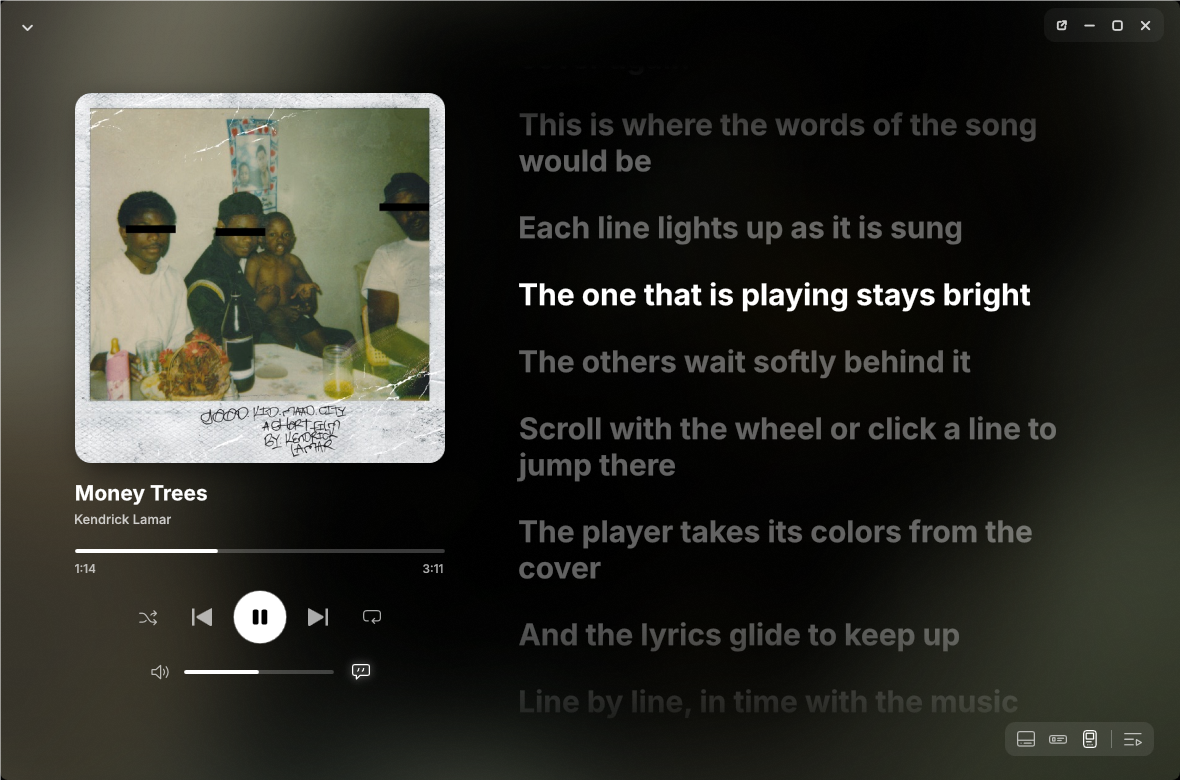
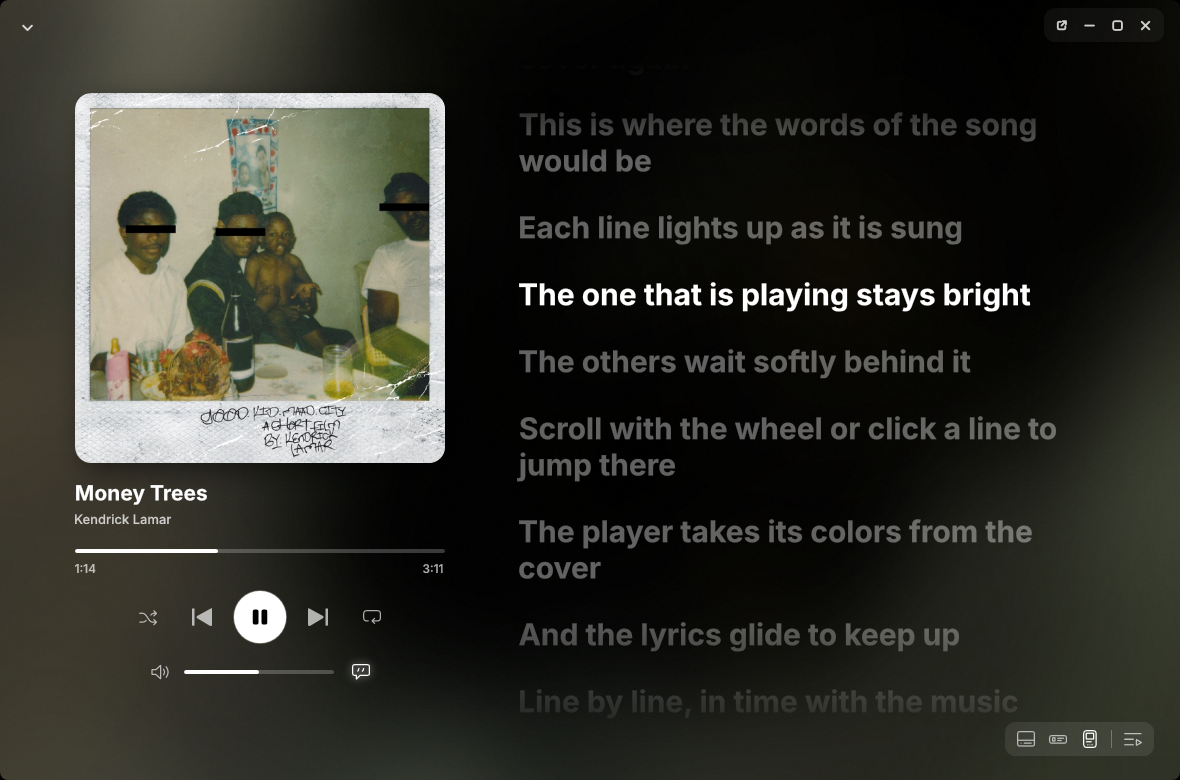
Retake the pictures and lay the page out in grids
New pictures of the real app with real album covers, drawn straight from the
window so nothing else on the screen can get in. Pictures now sit side by side,
the Discord and Ko-fi banners sit together at the top, and the colors text and
tagline are rewritten.

Changed region(s): [[0.0, 0.2462, 0.061, 0.4923], [0.9458, 0.0, 1.0, 0.1538]]

diff --git a/tests/ReadmeShots.cs b/tests/ReadmeShots.cs
@@ -56,7 +56,25 @@ class ReadmeShots
   }
   Console.WriteLine("  "+Path.GetFileName(path)+"  "+area.Width+"x"+area.Height);
  }
- static async Task Run(string coversFolder,string output)
+ // The window drawn straight from its own visuals, over black: nothing else on the screen can get into the picture (a window in front of it, or the desktop).
+ static void Shot(Window window,string path)
+ {
+  if(Environment.GetEnvironmentVariable("LUCENT_CAPTURE")=="screen"){Save(RectOf(window),path,8);return;}
+  int w=(int)Math.Round(window.ActualWidth*scale),h=(int)Math.Round(window.ActualHeight*scale);
+  var shown=new System.Windows.Media.Imaging.RenderTargetBitmap(w,h,96*scale,96*scale,System.Windows.Media.PixelFormats.Pbgra32);
+  shown.Render(window);
+  var visual=new System.Windows.Media.DrawingVisual();
+  using(var context=visual.RenderOpen())
+  {
+   context.DrawRectangle(System.Windows.Media.Brushes.Black,null,new System.Windows.Rect(0,0,w/scale,h/scale));
+   context.DrawImage(shown,new System.Windows.Rect(0,0,w/scale,h/scale));
+  }
+  var final=new System.Windows.Media.Imaging.RenderTargetBitmap(w,h,96*scale,96*scale,System.Windows.Media.PixelFormats.Pbgra32);
+  final.Render(visual);
+  var encoder=new System.Windows.Media.Imaging.PngBitmapEncoder();encoder.Frames.Add(System.Windows.Media.Imaging.BitmapFrame.Create(final));
+  using(var stream=File.Create(path))encoder.Save(stream);
+  Console.WriteLine("  "+Path.GetFileName(path)+"  "+w+"x"+h);
+ } static async Task Run(string coversFolder,string output)
  {
   Directory.CreateDirectory(output);
   StateStore.Folder=Path.Combine(AppDomain.CurrentDomain.BaseDirectory,"test-data","readme-shots-"+Guid.NewGuid().ToString("N"));Directory.CreateDirectory(StateStore.Folder);
@@ -96,7 +114,7 @@ class ReadmeShots
   {
    play(file);await Task.Delay(2600);
    var name=Path.GetFileNameWithoutExtension(file).Split(new[]{"__"},StringSplitOptions.None)[0].Replace(' ','-').ToLowerInvariant();
-   Save(RectOf(shell),Path.Combine(output,"home-"+name+".png"),8);
+   Shot(shell,Path.Combine(output,"home-"+name+".png"));
   }
   // The other pages, with the first cover.
   play(covers[0]);await Task.Delay(1800);
@@ -106,13 +124,13 @@ class ReadmeShots
   {
    if(!pages.Contains(page))continue;
    Call(shell,"ShowPage",page);await Task.Delay(1400);
-   Save(RectOf(shell),Path.Combine(output,"page-"+page.ToLowerInvariant()+".png"),8);
+   Shot(shell,Path.Combine(output,"page-"+page.ToLowerInvariant()+".png"));
   }
   Call(shell,"ShowPage","Home");await Task.Delay(900);
   // The big player.
   play(covers[Math.Min(1,covers.Count-1)]);await Task.Delay(1200);
   Call(shell,"SetBigPlayerOpen",true);await Task.Delay(3200);
-  Save(RectOf(shell),Path.Combine(output,"big-player.png"),8);
+  Shot(shell,Path.Combine(output,"big-player.png"));
   // The same player with lyrics: made-up demo lines in the lyrics cache (nothing is looked up online, and no real song's words are shown).
   var lyricsCache=(IDictionary)typeof(LyricsService).GetField("cache",BindingFlags.Static|BindingFlags.NonPublic).GetValue(null);
   var demoLines=new[]{"This is where the words of the song would be","Each line lights up as it is sung","The one that is playing stays bright","The others wait softly behind it","Scroll with the wheel or click a line to jump there","The player takes its colors from the cover","And the lyrics glide to keep up","Line by line, in time with the music","Nothing here is a real song","These are just lines to show how it looks","Open the lyrics with the speech bubble","Close them and the player is just the cover again"};
@@ -124,14 +142,14 @@ class ReadmeShots
   // (A test-mode window does not look songs up, so the demo lines are put in the lyrics view directly.)
   bigView.Lyrics.SetLyrics((LyricsResult)lyricsCache[(loadedBig.Item1.Artist+"|"+loadedBig.Item1.Title).ToLowerInvariant()]);bigView.Lyrics.Update(74);
   await Task.Delay(2200);
-  Save(RectOf(shell),Path.Combine(output,"big-player-lyrics.png"),8);
+  Shot(shell,Path.Combine(output,"big-player-lyrics.png"));
   Call(bigView,"ToggleLyrics");await Task.Delay(500);
   Call(shell,"SetBigPlayerOpen",false);await Task.Delay(900);
   // Game profiles, scrolled to the games (the pictures of the games found on this PC).
   Call(shell,"ShowPage","Profiles");await Task.Delay(1500);
   Shell.ShowGameIcons=true;var found=GameLibrary.Scan();shell.SetLibrary(found);Console.WriteLine("games found: "+found.Count+" ("+string.Join(", ",found.Take(12).Select(g=>g.Name))+")");await Task.Delay(2500);
   var scroll=(System.Windows.Controls.ScrollViewer)F(shell,"contentScroll").GetValue(shell);scroll.ScrollToVerticalOffset(520);await Task.Delay(900);
-  Save(RectOf(shell),Path.Combine(output,"game-profiles-games.png"),8);
+  Shot(shell,Path.Combine(output,"game-profiles-games.png"));
   if(Environment.GetCommandLineArgs().Contains("band"))
   {
    // The strip of the window around the player bar over a page with text just above it: is anything blurred above the bar?

diff --git a/README.md b/README.md
@@ -4,19 +4,19 @@
 
 <br>
 
-**A small Windows app I made for the things I kept fiddling with: my display, my games and my music.**
-**Its colors come from the album that is playing.**
+### *Lucent. The Windows app that makes your setup feel like yours.*
+
+A small app I made for the things I kept fiddling with: my display, my games and my music.
+Its colors come from the album that is playing.
 
 <b>Download coming soon</b> &nbsp;·&nbsp; Windows 10 / 11 &nbsp;·&nbsp; installs for your user, no admin prompt
 
 ![Windows 10/11](https://img.shields.io/badge/Windows-10%20%7C%2011-0078d4) ![License: MIT](https://img.shields.io/badge/license-MIT-blue) ![Price: free](https://img.shields.io/badge/price-free-brightgreen) [![Stars](https://img.shields.io/github/stars/positted/lucent?style=flat)](https://github.com/positted/lucent/stargazers)
 
-[![Join our community](https://img.shields.io/badge/Join%20our%20community!-Discord-5865F2?logo=discord&logoColor=white)](https://github.com/positted/lucent/discussions) &nbsp; [![Support on Ko-fi](https://img.shields.io/badge/Ko--fi-support%20Lucent-ff5e5b?logo=ko-fi&logoColor=white)](https://ko-fi.com/lucent_)
+<a href="https://github.com/positted/lucent/discussions"><img src="docs/images/discord-banner.svg" alt="Come say hello! Join our community on Discord" width="330"></a> &nbsp; <a href="https://ko-fi.com/lucent_"><img src="docs/images/kofi-banner.svg" alt="Buy me a coffee. Support Lucent on Ko-fi" width="270"></a>
 
-<!-- Discord server not made yet: the community badge points to GitHub Discussions for now. Swap the link for the invite later. -->
-<!-- Social preview: upload docs/images/social-preview.png in Settings > Social preview. -->
+<!-- Discord server not made yet: the community banner points to GitHub Discussions for now. Swap the link for the invite later. -->
 <!-- TODO GIFs (need a live recording): docs/images/mini-player-close.gif, docs/images/dark-boost-scroll.gif -->
-
 </div>
 
 <br>
@@ -35,7 +35,7 @@ I write and test it myself on my own PC, so if something looks off or breaks on 
 |---|---|
 | **Resolution and refresh rate** | Switch with a click or a shortcut, keep two sizes as a quick-switch pair, add custom resolutions. Your refresh rate and color depth stay the same, and nothing is applied when Lucent starts. |
 | **Color** | Vibrance, a red filter and screen dimming for each display, quick looks (Vivid, Warm evening, Night, Reading), color-blindness modes with a strength slider and eye-break reminders. |
-| **Game profiles** | A saved look for each game. While the game runs Lucent uses its look, then goes back to your desktop look. |
+| **Profiles** | Save your colors, Dark Boost, zoom, Color pop and sound radar as a profile, and use it any time. Tie one to a game and it switches on while that game runs, then goes back to your desktop look. |
 | **Crosshair** | Build your own, save it, share it with a short code. |
 | **Zoom and visual tools** | Zoom with the mouse wheel, Smart shadows, Dark Boost (hold its key and scroll to change the strength), Color pop and a sound radar. |
 | **Game Boost** | See what is using memory and close only what you pick. Games, anti-cheat, Windows and security parts are never touched. |
@@ -44,41 +44,36 @@ I write and test it myself on my own PC, so if something looks off or breaks on 
 
 ## Colors that follow the music
 
-The window, the cards and the moving colors behind them are made from the cover that is playing. A blue cover gives a blue app, a red one a red app. A cover with a small patch of another color (a face on a blue sky) still gives its main color.
+Put a song on and Lucent changes with it. Every album cover gives the window its own mood: cool blue, warm red, dusty gold. Lucent looks at the whole cover and goes with the color there is the most of, so one small patch of another color will not take over.
 
 <p align="center">
 <img src="docs/images/colors-follow-music.gif" alt="The app's colors changing from one album cover to the next" width="640">
 </p>
 
-<p align="center">
-<img src="docs/images/home-red.png" alt="Home with a red album cover" width="440">
-<img src="docs/images/home-colorful.png" alt="Home with a colorful album cover" width="440">
-</p>
+<table>
+<tr>
+<td align="center"><img src="docs/images/home.png" alt="A blue album cover gives a blue app" width="285"><br><sub>A blue cover</sub></td>
+<td align="center"><img src="docs/images/home-red.png" alt="A red album cover gives a red app" width="285"><br><sub>A red cover</sub></td>
+<td align="center"><img src="docs/images/home-warm.png" alt="A gold album cover gives a warm app" width="285"><br><sub>A gold cover</sub></td>
+</tr>
+</table>
 
-## The player
+## Take a look
 
-<p align="center">
-<img src="docs/images/big-player.png" alt="The big player" width="440">
-<img src="docs/images/big-player-lyrics.png" alt="The big player with lyrics" width="440">
-</p>
+<table>
+<tr>
+<td align="center"><img src="docs/images/big-player.png" alt="The big player" width="285"><br><sub>The big player</sub></td>
+<td align="center"><img src="docs/images/big-player-lyrics.png" alt="The big player with lyrics" width="285"><br><sub>Lyrics in time with the song</sub></td>
+<td align="center"><img src="docs/images/games.png" alt="Your games, found from your launchers" width="285"><br><sub>Your games, found for you</sub></td>
+</tr>
+<tr>
+<td align="center"><img src="docs/images/resolution.png" alt="Resolution and refresh rate" width="285"><br><sub>Display</sub></td>
+<td align="center"><img src="docs/images/color.png" alt="Color" width="285"><br><sub>Color</sub></td>
+<td align="center"><img src="docs/images/crosshair.png" alt="Crosshair" width="285"><br><sub>Crosshair</sub></td>
+</tr>
+</table>
 
-Lyrics show line by line in time with the song. (The lines in this picture are made up for the picture.)
-
-## Your games
-
-<p align="center">
-<img src="docs/images/games.png" alt="Games found on the PC, in Game profiles" width="760">
-</p>
-
-## More
-
-<p align="center">
-<img src="docs/images/resolution.png" alt="Resolution" width="440">
-<img src="docs/images/color.png" alt="Color" width="440">
-<img src="docs/images/crosshair.png" alt="Crosshair" width="440">
-<img src="docs/images/home-warm.png" alt="Home with a warm album cover" width="440">
-</p>
-
+<sub>The lyrics in that picture are made up for the picture.</sub>
 ## Install
 
 The first download is coming soon. Star or watch this repository to hear when it is out.
